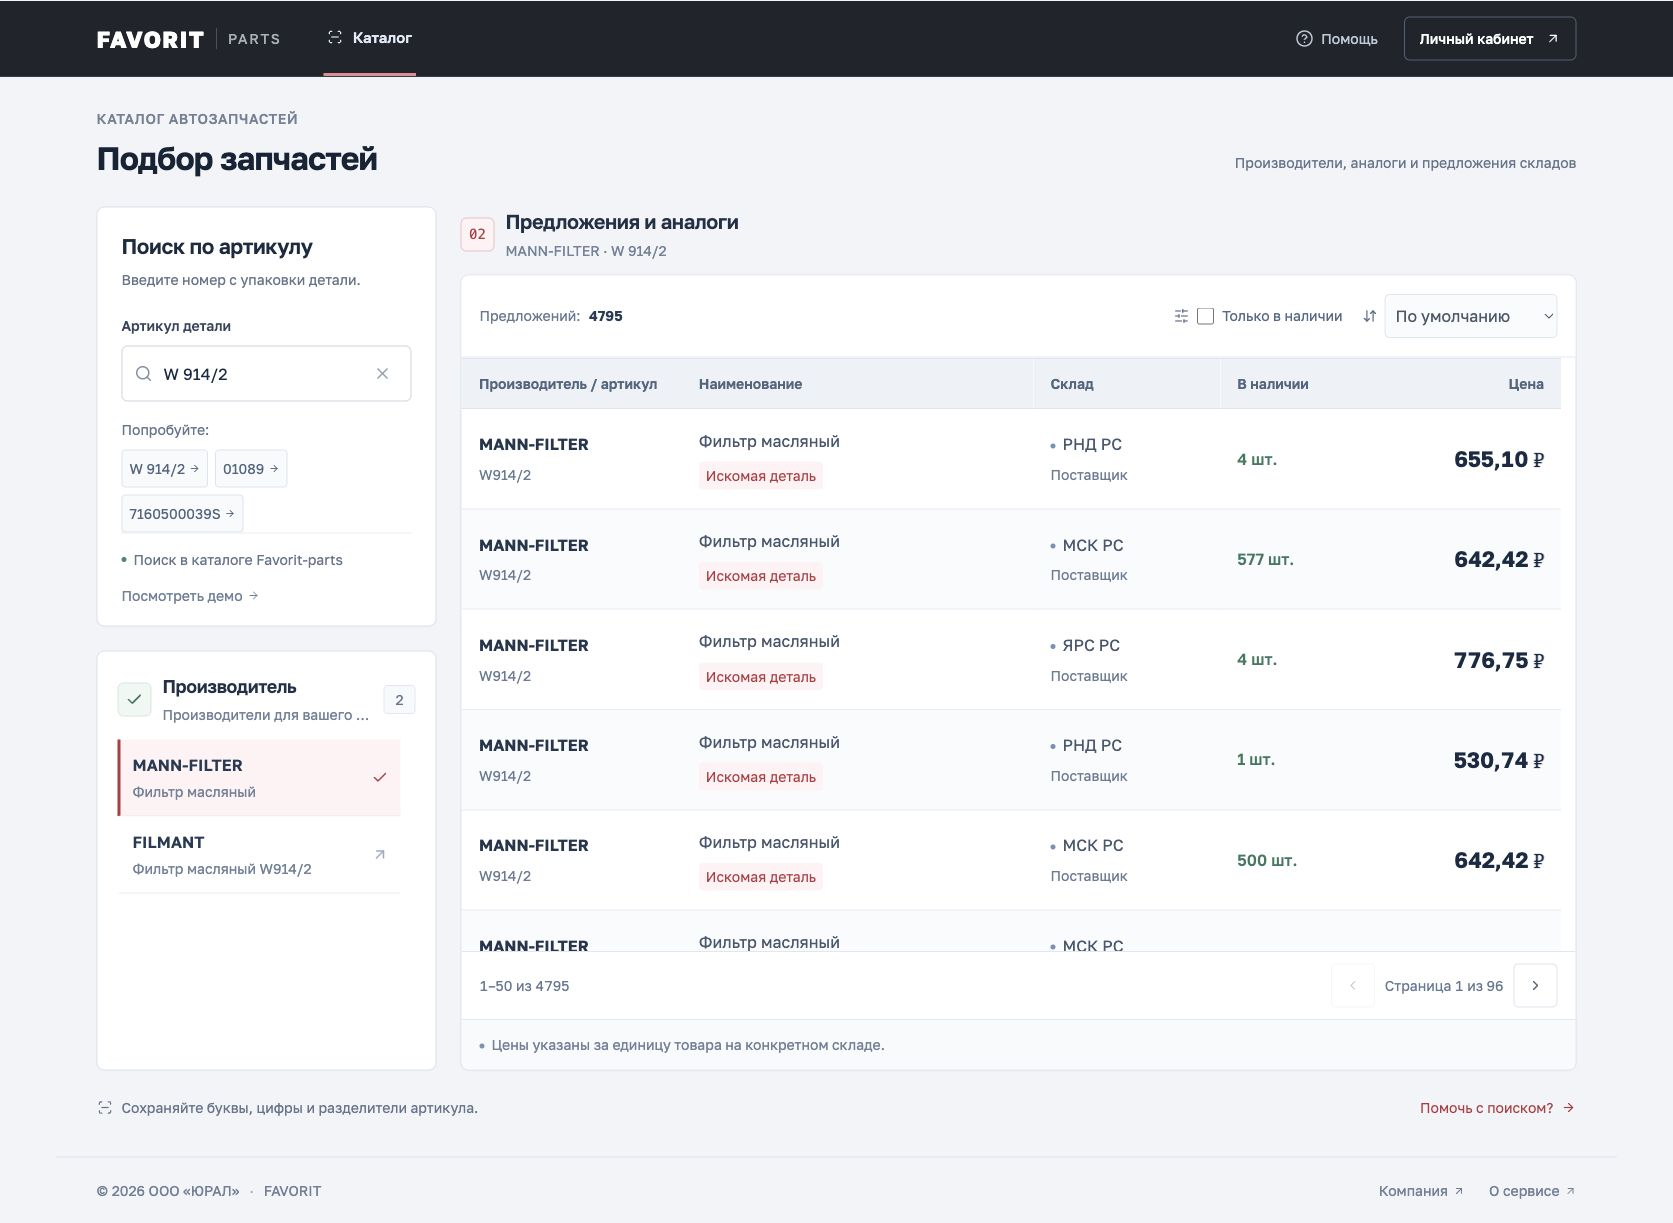
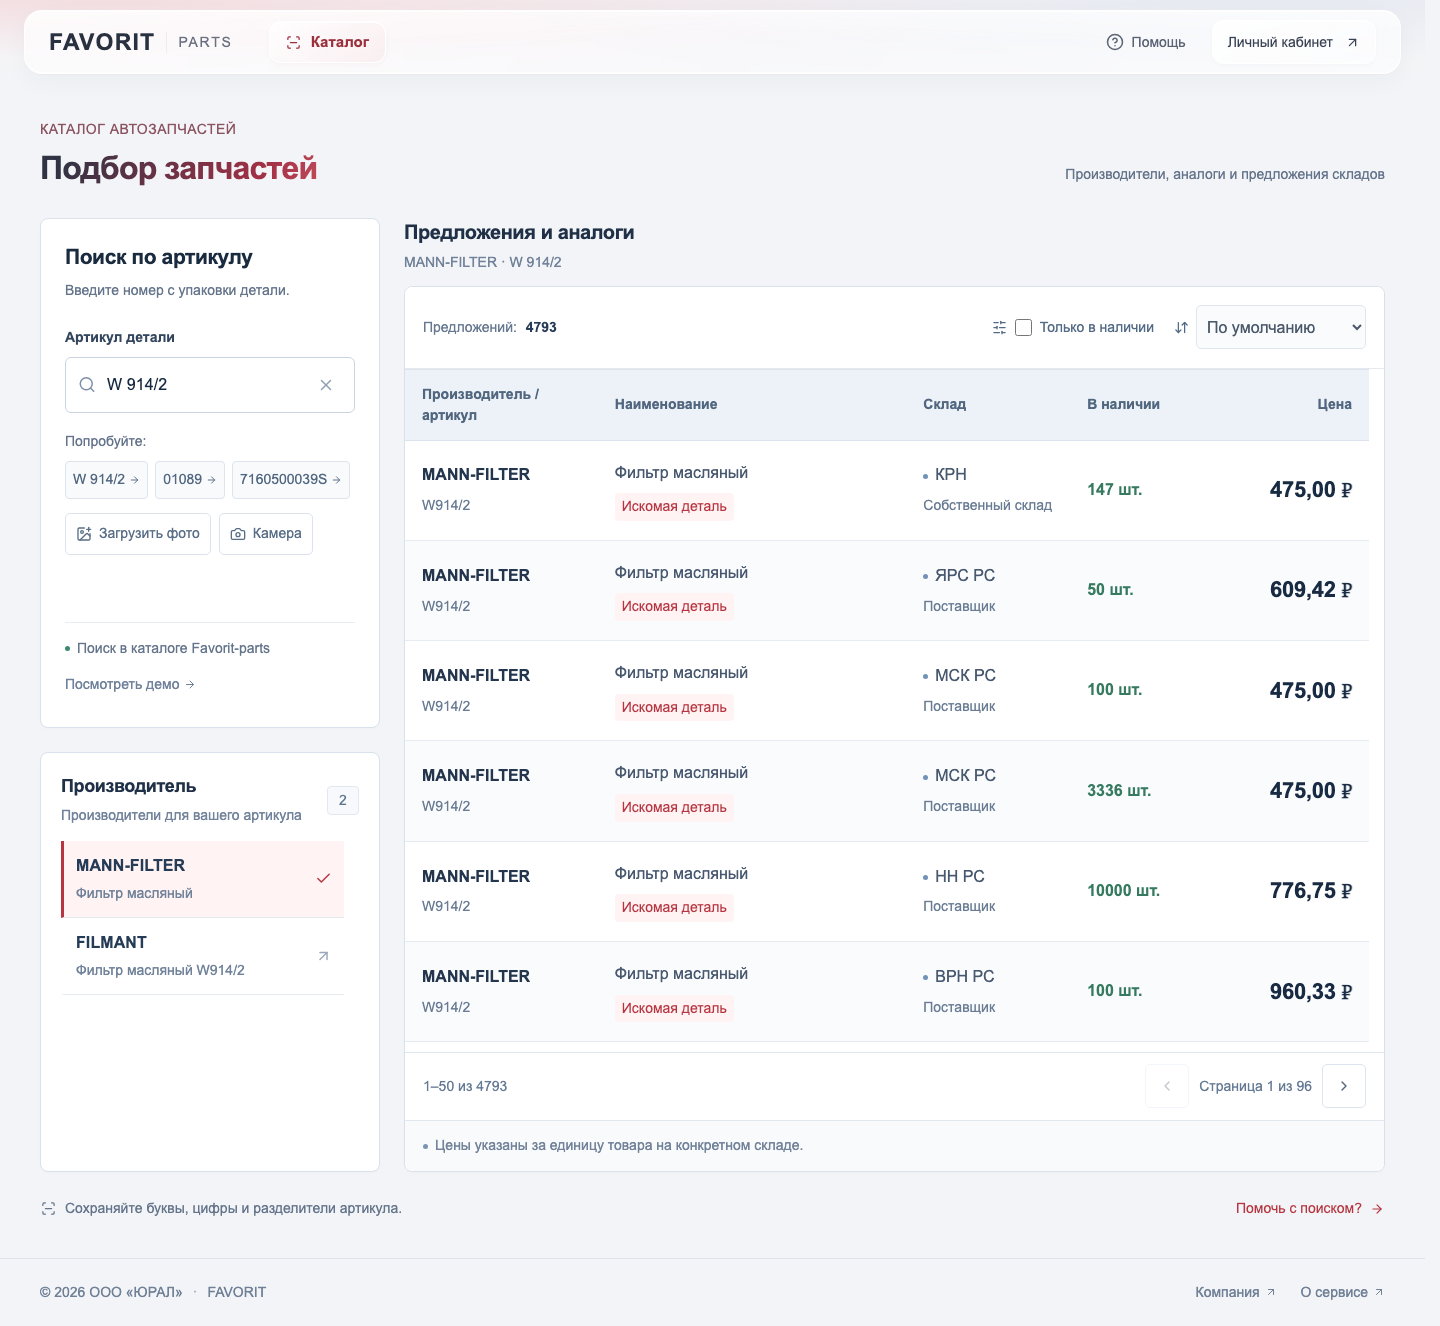
design: add frosted glass header and warm title gradient

diff --git a/src/app/App.module.scss b/src/app/App.module.scss
@@ -4,10 +4,14 @@
   overflow-wrap: anywhere;
 }
 .header {
-  height: 76px;
-  background: #20252c;
-  color: #fff;
-  border-bottom: 1px solid #343c47;
+  position: relative;
+  height: 88px;
+  padding-top: 10px;
+  color: #293140;
+  background:
+    radial-gradient(ellipse at 8% 0%, #ecc2c875, transparent 48%),
+    radial-gradient(ellipse at 88% 0%, #d6dfed85, transparent 50%),
+    linear-gradient(180deg, #f8f5f6, #f2f4f7);
 }
 .headerInner,
 .main,
@@ -20,8 +24,33 @@
 .headerInner {
   display: flex;
   align-items: center;
-  gap: 42px;
-  height: 100%;
+  gap: 36px;
+  position: relative;
+  width: calc(100% - 48px);
+  max-width: 1480px;
+  height: 64px;
+  padding-inline: 24px;
+  border: 1px solid #ffffffdc;
+  border-radius: 18px;
+  background: linear-gradient(125deg, #ffffffbd, #ffffff66 52%, #ffffffa6);
+  -webkit-backdrop-filter: blur(20px) saturate(150%);
+  backdrop-filter: blur(20px) saturate(150%);
+  box-shadow:
+    0 8px 24px #27334a09,
+    0 1px 3px #27334a08,
+    inset 0 1px 0 #fff,
+    inset 0 -1px 0 #ffffffa6;
+  &::before {
+    content: "";
+    position: absolute;
+    inset: 0;
+    pointer-events: none;
+    border-radius: inherit;
+    background: linear-gradient(180deg, #ffffff75, transparent 48%);
+  }
+  > * {
+    position: relative;
+  }
 }
 .wordmark {
   display: flex;
@@ -36,18 +65,24 @@
   font-size: 14px;
   font-weight: 450;
   letter-spacing: 1.8px;
-  color: #a7afb9;
-  border-left: 1px solid #49515c;
+  color: #697180;
+  border-left: 1px solid #c9ced64d;
   padding-left: 11px;
 }
 .currentPage {
-  align-self: stretch;
+  align-self: center;
   display: flex;
   align-items: center;
   gap: 10px;
-  border-bottom: 3px solid #e68b91;
-  padding-inline: 4px;
-  color: #e1ebf8;
+  min-height: 42px;
+  padding: 9px 16px;
+  border: 1px solid #ffffffed;
+  border-radius: 12px;
+  color: #9b303d;
+  background: linear-gradient(145deg, #ffffffd9, #f9e8eb9c);
+  box-shadow:
+    0 2px 5px #982d3a08,
+    inset 0 1px 0 #fff;
   font-size: 15px;
   font-weight: 550;
 }
@@ -62,10 +97,10 @@
   align-items: center;
   gap: 8px;
   min-height: 44px;
-  color: #bdcadb;
+  color: #5b6474;
   font-size: 14px;
   &:hover {
-    color: #fff;
+    color: var(--accent);
   }
 }
 .accountLink {
@@ -74,14 +109,19 @@
   gap: 12px;
   min-height: 44px;
   padding: 9px 15px;
-  border: 1px solid #506078;
-  border-radius: 6px;
+  border: 1px solid #ffffffed;
+  border-radius: 12px;
+  background: linear-gradient(145deg, #ffffffd9, #ffffff66);
+  box-shadow:
+    0 2px 5px #26334606,
+    inset 0 1px 0 #fff;
   font-size: 14px;
   font-weight: 500;
-  color: #fff;
+  color: #3a4354;
   &:hover {
-    background: #303740;
-    border-color: #a86d75;
+    color: var(--accent);
+    background: #fff6f7;
+    border-color: var(--accent-border);
   }
 }
 .main {
@@ -100,7 +140,13 @@
     line-height: 1.3;
     font-weight: 650;
     letter-spacing: -0.8px;
-    color: #152338;
+    color: #752d40;
+    @supports (background-clip: text) {
+      background: linear-gradient(110deg, #303344 8%, #a33145 80%, #be4a59);
+      background-clip: text;
+      -webkit-background-clip: text;
+      color: transparent;
+    }
   }
   > p {
     margin: 0 0 4px;
@@ -113,7 +159,7 @@
   font-size: 14px;
   font-weight: 500;
   letter-spacing: 0.5px;
-  color: #748196;
+  color: #8b5360;
 }
 .helper {
   display: flex;
@@ -175,7 +221,8 @@
 }
 @media (max-width: bp.$phone) {
   .header {
-    height: 70px;
+    height: 84px;
+    padding-top: 8px;
   }
   .headerInner,
   .main,
@@ -183,7 +230,11 @@
     padding-inline: 18px;
   }
   .headerInner {
-    gap: 18px;
+    width: calc(100% - 24px);
+    height: 64px;
+    padding-inline: 14px;
+    border-radius: 16px;
+    gap: 12px;
   }
   .wordmark {
     font-size: 21px;

diff --git a/README.md b/README.md
@@ -83,7 +83,7 @@ npm run test:vitals
 
 ## Дизайн рабочего приложения
 
-Интерфейс оформлен как строгая B2B-платформа подбора: графитовая шапка, белые рабочие поверхности, сдержанные красные акценты, единые рамки и отступы. Производители отображаются списком с выделением выбранного бренда тонкой красной полосой; таблица использует контрастные заголовки, чередование строк и отдельную типографику цен. Декоративные монограммы и лишняя вложенность панелей убраны.
+Интерфейс оформлен как строгая B2B-платформа подбора: светлая полупрозрачная шапка с эффектом стекла, белые рабочие поверхности, сдержанные красные акценты, единые рамки и отступы. Производители отображаются списком с выделением выбранного бренда тонкой красной полосой; таблица использует контрастные заголовки, чередование строк и отдельную типографику цен. Декоративные монограммы и лишняя вложенность панелей убраны.
 
 На экранах от 1100 px поиск и список производителей находятся в левой колонке, выдача занимает основную область справа. На планшетах и телефонах секции последовательно складываются в одну колонку, а предложения переходят в карточки. Все бренды доступны в прокручиваемом списке; все предложения — через пагинацию.
 
